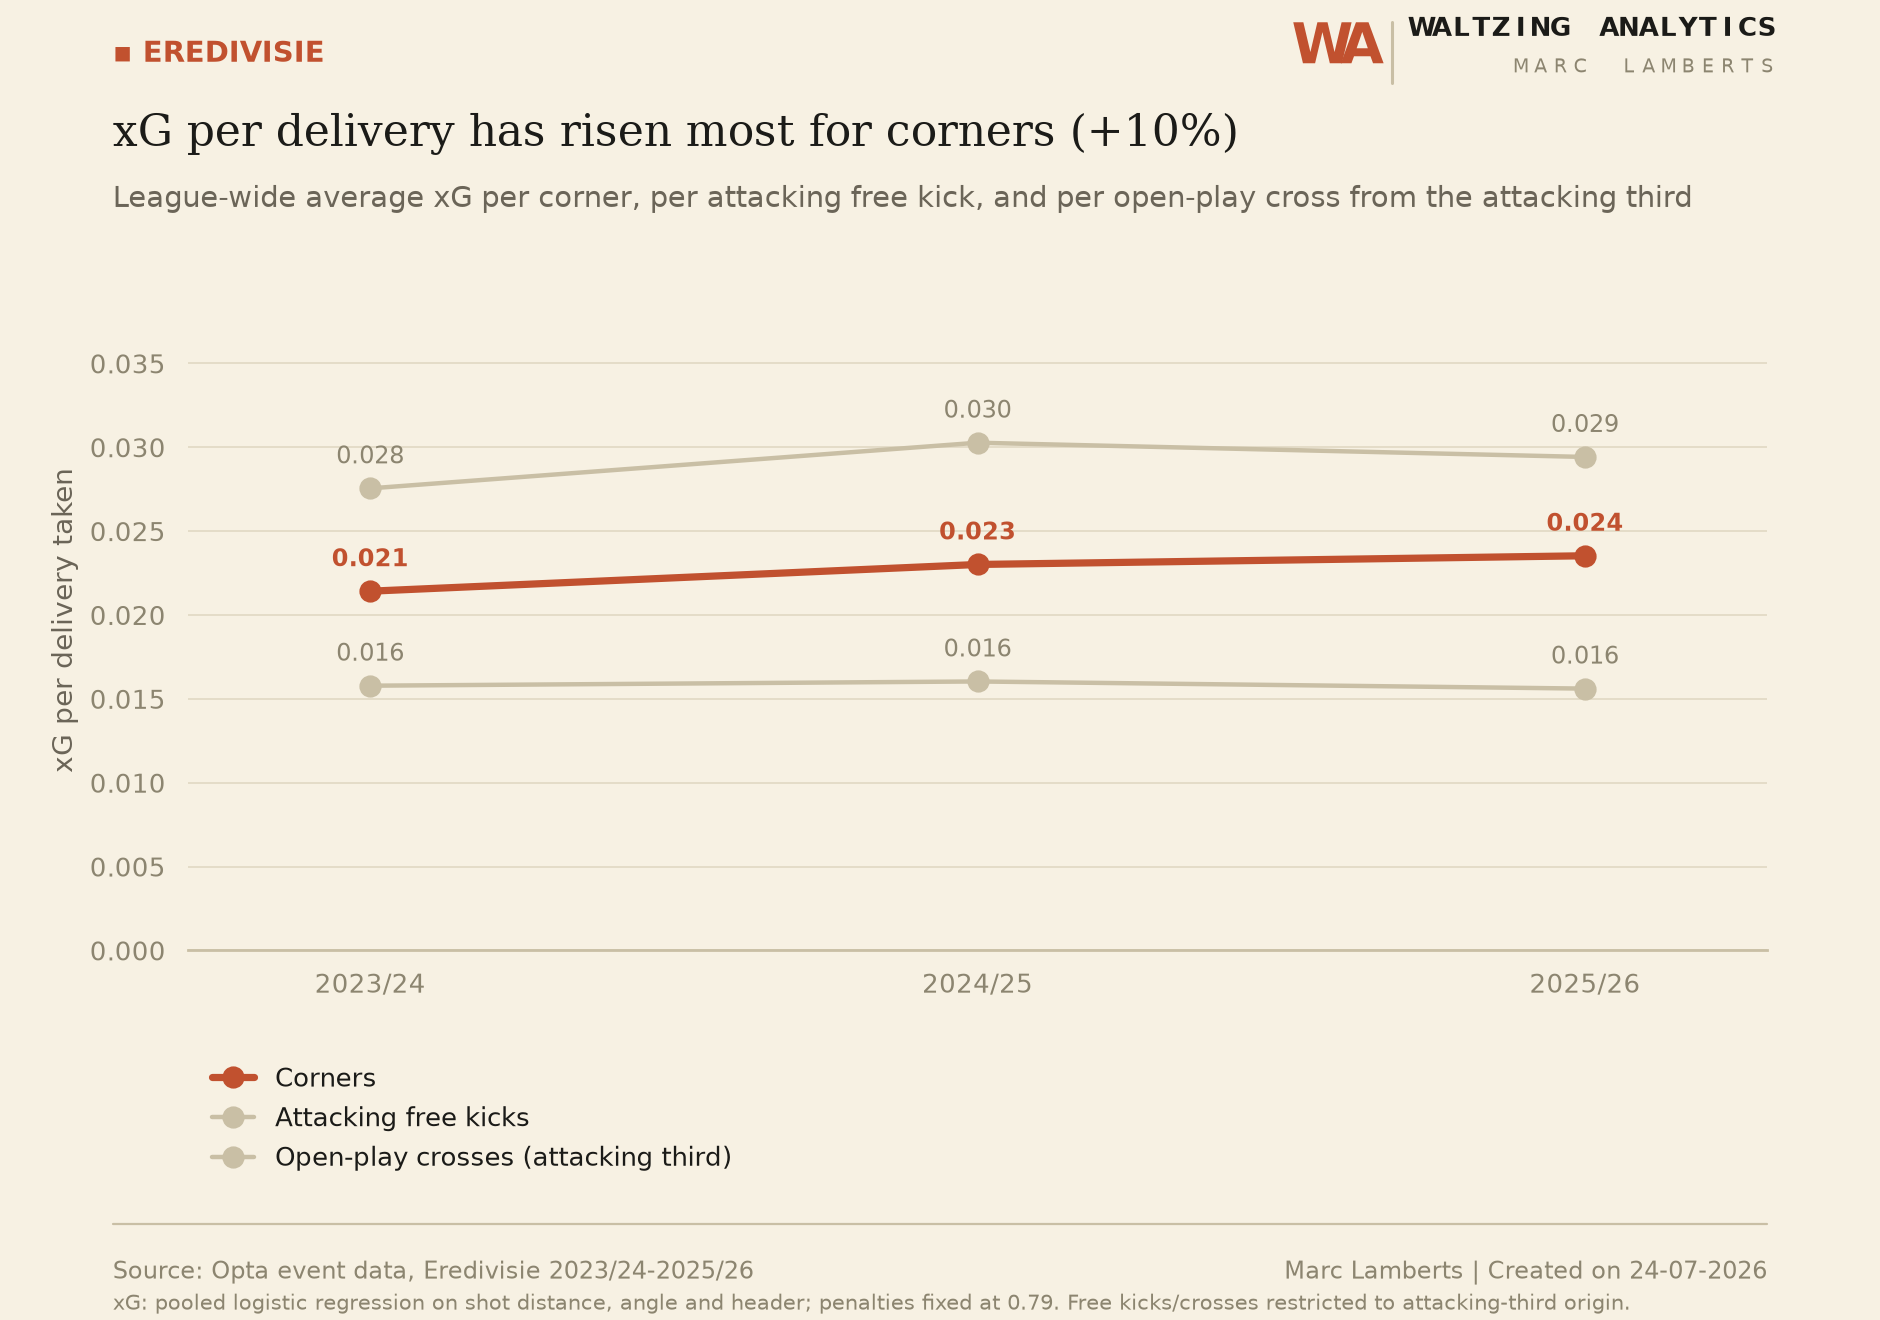
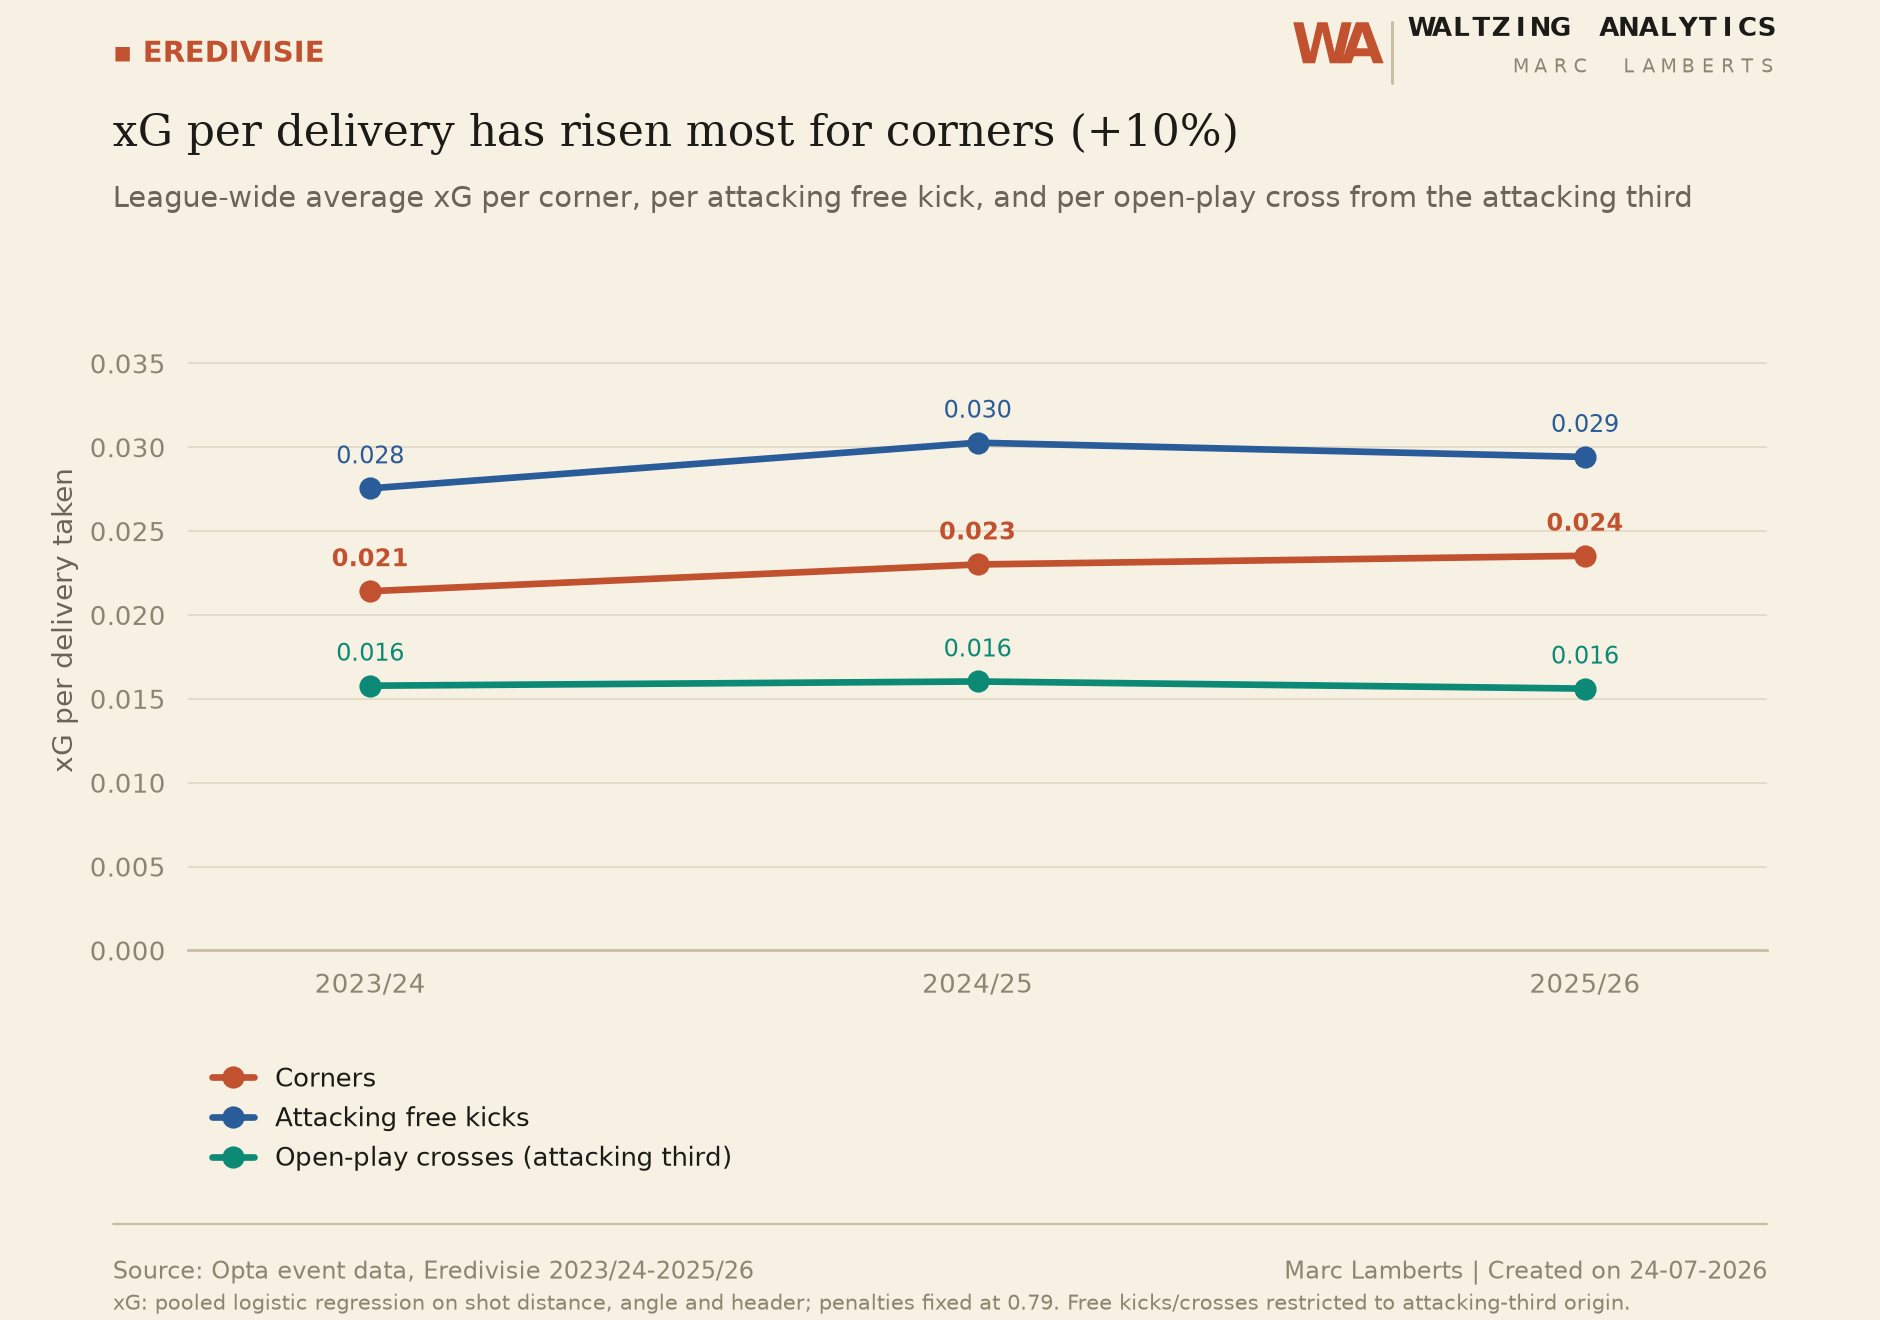
Give each delivery-type line its own distinct color
Was muting attacking free kicks and open-play crosses to the same
axis-gray via highlight_lines(), which made them hard to tell apart.
Now each of the three series gets a fixed, distinct color from the
house-style categorical palette (corners keep the terracotta accent;
free kicks get ink blue, crosses get teal) so all three are readable
at a glance regardless of which one is driving the headline finding.

Claude-Session: https://claude.ai/code/session_01BuByDuxDVUSjrk4AYKG431

diff --git a/Cross Models/xg_per_delivery_trend.py b/Cross Models/xg_per_delivery_trend.py
@@ -68,6 +68,12 @@ PENALTY_XG = 0.79                        # fixed, ~league-average penalty conver
 DELIVERIES = ["corner", "freekick", "cross"]
 DELIVERY_LABELS = {"corner": "Corners", "freekick": "Attacking free kicks",
                     "cross": "Open-play crosses (attacking third)"}
+# Fixed, distinct color per line (not the usual single-accent/muted-rest
+# treatment) -- the point of this chart is telling all three series apart
+# at a glance. Accent (terracotta) still marks corners, the series the
+# analysis started from; the other two get their own categorical hues
+# rather than collapsing to one shared gray.
+DELIVERY_COLOR_SLOT = {"corner": "accent", "freekick": 0, "cross": 2}
 
 
 def qids(e):
@@ -232,17 +238,21 @@ def make_plot(results, out_path):
     x = list(range(len(SEASONS)))
     labels = [SEASON_LABELS[s] for s in SEASONS]
 
-    # Largest overall % change is the finding -> gets the accent.
+    # Largest overall % change is the finding -> drives the headline (color
+    # is fixed per delivery type below, independent of which one leads).
     changes = {k: (results[k][-1] / results[k][0] - 1) if results[k][0] else 0 for k in DELIVERIES}
     lead = max(changes, key=lambda k: abs(changes[k]))
-    accent_idx = DELIVERIES.index(lead)
+
+    line_colors = {}
+    for k in DELIVERIES:
+        slot = DELIVERY_COLOR_SLOT[k]
+        color = palette["accent"] if slot == "accent" else cats[slot]
+        line_colors[k] = color
+        ax.plot(x, results[k], marker="o", linewidth=2.4, color=color,
+                label=DELIVERY_LABELS[k], zorder=3)
 
     for k in DELIVERIES:
-        ax.plot(x, results[k], marker="o", linewidth=2.2, label=DELIVERY_LABELS[k], zorder=3)
-    components.highlight_lines(ax, accent_index=accent_idx, palette=palette)
-
-    for k in DELIVERIES:
-        color = palette["accent"] if k == lead else palette["ink_muted"]
+        color = line_colors[k]
         for xi, yi in zip(x, results[k]):
             ax.annotate(f"{yi:.3f}", (xi, yi), textcoords="offset points", xytext=(0, 9),
                         ha="center", fontsize=8.5, color=color,
